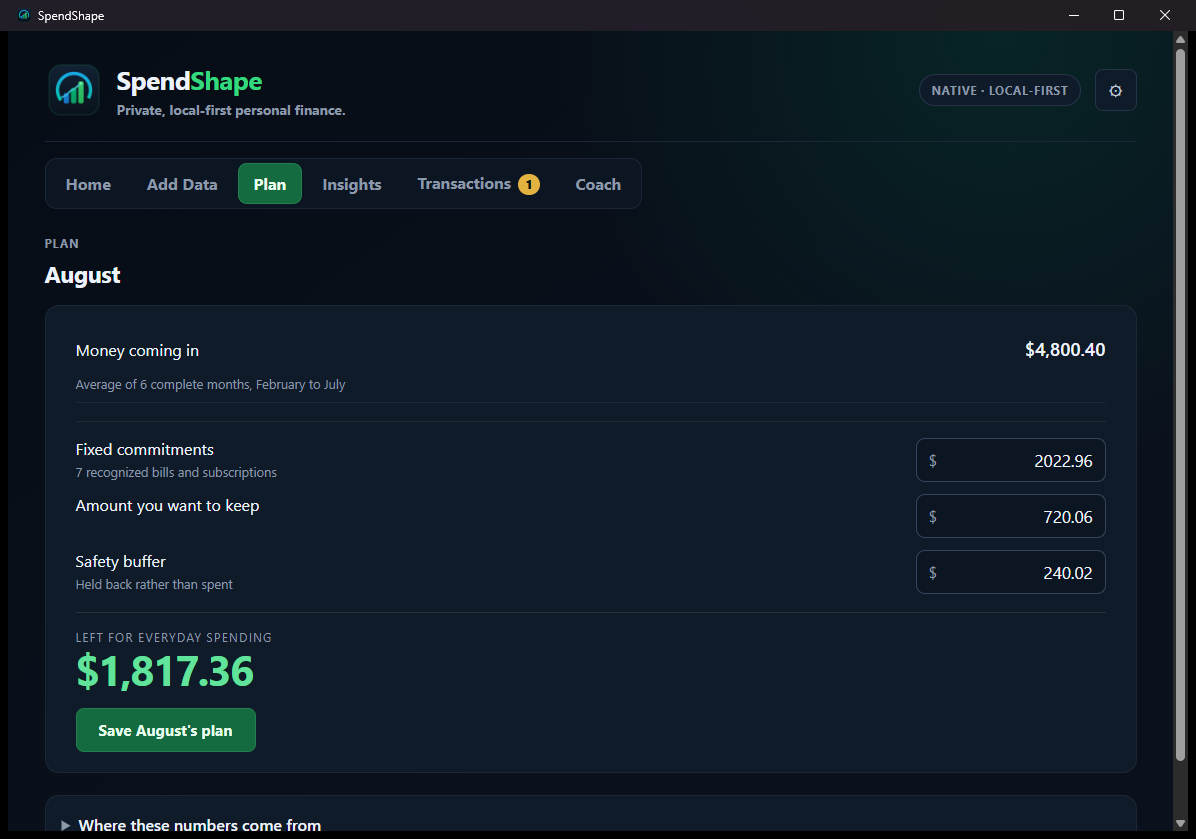
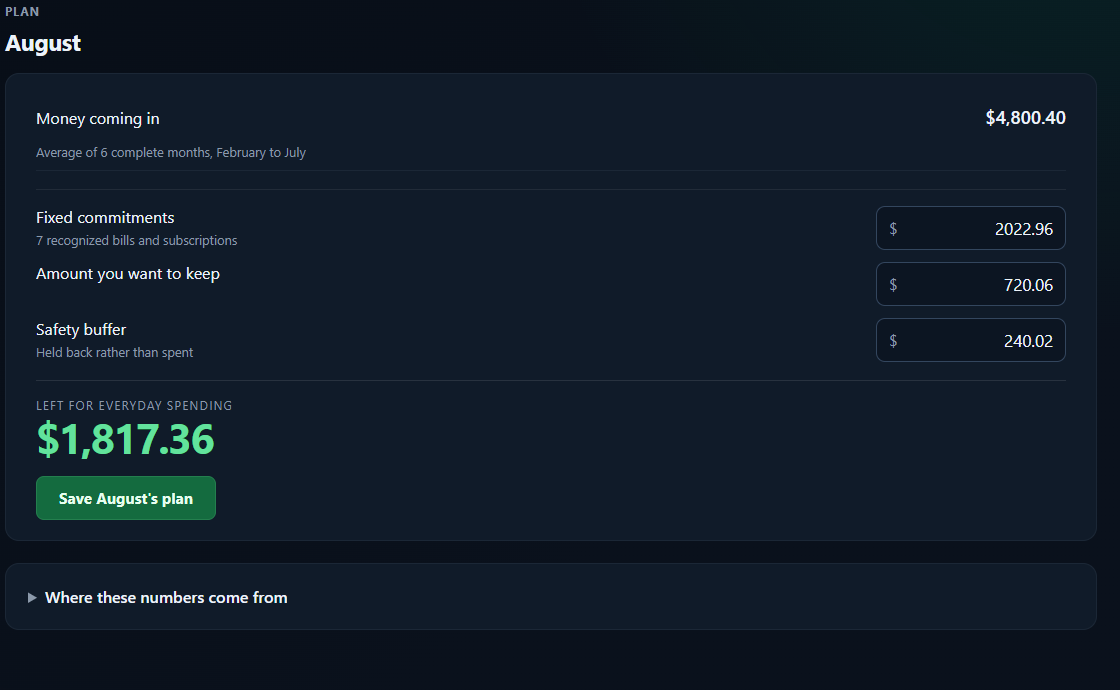
Show the first five minutes, not just the finished dashboard
Every public screenshot was of an app that already had months of data in it,
which answers the wrong question for somebody deciding whether to download
this. The tour now opens on the Getting started checklist a new profile
actually starts on: no account, bring a CSV, and what happens once it lands.

All six screenshots are recaptured from the released 3.2.0 build against the
synthetic demo database. Two were genuinely wrong rather than merely old:
plan.png still had SpendShape branding in the title bar and the wordmark, so
the live product tour has been showing a two-names-ago screenshot, and the
profile shots predated the placeholder fix.

The README replaces "download it and run it" with the four steps somebody
actually goes through, including the SmartScreen box, because that warning is
where a non-technical person stops. Says once, plainly, that there is no
Authenticode certificate and that update downloads are separately signed.

diff --git a/site/app.js b/site/app.js
@@ -1,4 +1,16 @@
 const tours = {
+  start: {
+    kicker: "The first five minutes",
+    title: "It tells you what to do before you have any data",
+    copy: "A new profile opens on a short checklist instead of an empty dashboard: where your data lives, which file to bring, and what happens once it lands. It disappears once you have imported something, and Settings can bring it back.",
+    points: [
+      "No account to create and nothing to sign in to",
+      "CSV is the format to use; PDF import is Beta and only reads some layouts",
+      "Plan waits until you have enough months for it to mean anything",
+    ],
+    image: "assets/getting-started.png",
+    alt: "SignalSpace Getting started checklist on a new empty profile",
+  },
   home: {
     kicker: "A useful weekly check-in",
     title: "Start with what changed, not a wall of charts",
@@ -90,3 +102,7 @@ tabs.forEach((tab, index) => {
     selectTour(tabs[next].dataset.tour);
   });
 });
+
+// The first tab owns the panel on load, so the static markup never drifts
+// from whichever step is selected.
+selectTour("start");

diff --git a/site/index.html b/site/index.html
@@ -84,7 +84,8 @@
         </div>
 
         <div class="tour-tabs" role="tablist" aria-label="SignalSpace screens">
-          <button id="tour-home" role="tab" aria-selected="true" aria-controls="tour-panel" tabindex="0" data-tour="home">Home</button>
+          <button id="tour-start" role="tab" aria-selected="true" aria-controls="tour-panel" tabindex="0" data-tour="start">First run</button>
+          <button id="tour-home" role="tab" aria-selected="false" aria-controls="tour-panel" tabindex="-1" data-tour="home">Home</button>
           <button id="tour-profiles" role="tab" aria-selected="false" aria-controls="tour-panel" tabindex="-1" data-tour="profiles">Profiles</button>
           <button id="tour-plan" role="tab" aria-selected="false" aria-controls="tour-panel" tabindex="-1" data-tour="plan">Plan</button>
           <button id="tour-insights" role="tab" aria-selected="false" aria-controls="tour-panel" tabindex="-1" data-tour="insights">Insights</button>

diff --git a/README.md b/README.md
@@ -30,22 +30,29 @@ The questions it is built to answer:
 
 ## Install it
 
-[Download SignalSpaceFinance-setup.exe](https://github.com/benthompsondev/ledger-local-finance/releases/latest/download/SignalSpaceFinance-setup.exe) and run it. That is the
-whole thing. You do not need Python, Node or Rust to
-use SignalSpace; the installer bundles everything, including the Python engine.
+1. **[Download SignalSpaceFinance-setup.exe](https://github.com/benthompsondev/ledger-local-finance/releases/latest/download/SignalSpaceFinance-setup.exe)** and run it.
+2. If Windows shows **"Windows protected your PC"**, click **More info**, then
+   **Run anyway**.
+3. Open SignalSpace. It starts on a short checklist telling you what to do.
+4. Import a CSV from your bank. Home and Insights fill in from there.
 
-That link always resolves to the newest release, so it keeps working and
-does not need updating when a new version ships. A versioned copy is
-published beside it for release history, and the versioned file is what
-the updater and its signature refer to.
+You do not need Python, Node or Rust; the installer bundles everything,
+including the Python engine. It installs for your user only, so there is no
+admin prompt, and installing over an older version keeps your data.
 
-It installs for your user only, so no admin prompt. Installing over an older
-version keeps your data.
+That download link always resolves to the newest release, so it keeps working
+without being edited each time. A versioned copy is published beside it for
+release history, and the versioned file is what the updater and its signature
+refer to.
 
-**Windows will warn you the first time.** The installer is not Authenticode
-signed, so SmartScreen may show "Windows protected your PC". Click More info,
-then Run anyway. The release page includes a SHA-256 checksum if you want to
-verify the download.
+![The Getting started checklist a new profile opens on](site/assets/getting-started.png)
+
+**Why Windows warns you.** SignalSpace has no Authenticode publisher
+certificate, which is the paid code-signing that stops SmartScreen appearing.
+Every release publishes a SHA-256 checksum you can verify the download
+against. Updates are separate: in-app update downloads *are* cryptographically
+signed, and SignalSpace refuses to install one whose signature does not
+match.
 
 ### Updating
 
